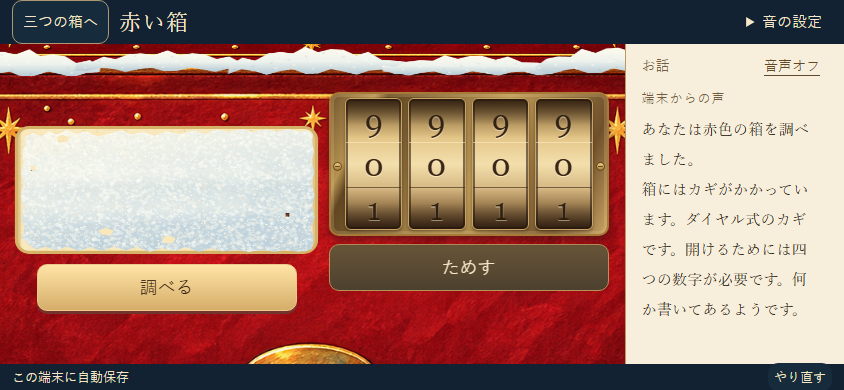
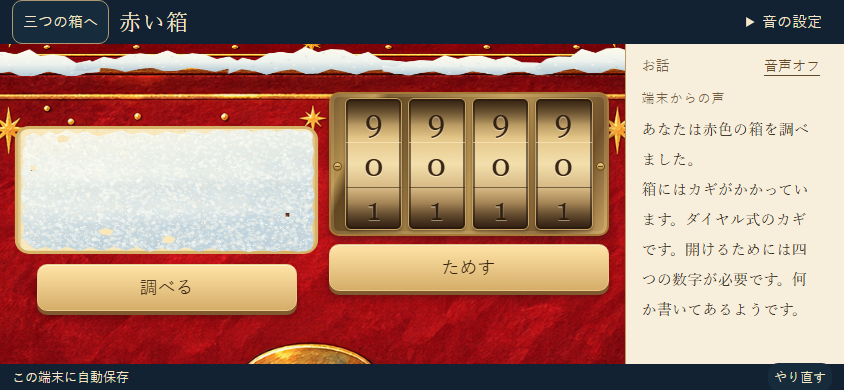
Make red-box controls tactile and guide lid dragging on the box

Changed region(s): [[0.3697, 0.6154, 0.7393, 0.7692], [0.0308, 0.8, 0.3389, 0.8308]]

diff --git a/prototype/red-box-stage.js b/prototype/red-box-stage.js
@@ -10,9 +10,10 @@ const readings = [ '', '雪の下に、何かある。', 'サンタ、イタチ\
 export function createRedBoxStage({ setCode, onDial, getCode, onLid }) {
   const element = document.createElement('section');
   element.className = 'red-stage';
+  const gripIcon='<span class="red-grip-arrow" aria-hidden="true"><svg viewBox="0 0 32 32"><path d="M16 28V6M6 16l10-10 10 10"/></svg></span><span class="red-grip-dots" aria-hidden="true"></span>';
   element.innerHTML = `<header class="red-header"><button type="button" data-action="boxes" class="red-back">三つの箱へ</button><h1 id="screen-heading" tabindex="-1">赤い箱</h1><details class="red-settings"><summary>音の設定</summary><div class="red-settings-content"></div></details></header>
-    <div class="red-content"><div class="red-play"><div class="red-picture"><canvas class="red-canvas" role="img" aria-label="大きく見た赤い箱"></canvas><div class="red-snowfall" aria-hidden="true"></div><div class="red-lock-panel" aria-label="赤い箱の錠"><div class="red-lock-mount"><span class="red-lock-screw left" aria-hidden="true"></span><span class="red-lock-screw right" aria-hidden="true"></span></div><button type="button" class="secondary" data-action="red_try">ためす</button></div><p class="red-loading" role="status">絵を読み込んでいます。</p><p class="red-wait" role="status" hidden></p><p class="red-fallback" hidden>赤い箱の絵を読み込めませんでした。手がかりとダイヤルで続けられます。</p></div>
-    <div class="red-actions"><p class="red-discovery" role="status"></p><button type="button" class="primary red-examine" data-action="examine">調べる</button><p class="red-result" role="status"></p><p class="red-lid-hint" hidden>ふたを上へ引いてあける</p><button type="button" class="secondary" data-action="open_red_lid" hidden>ふたをあける</button><div class="red-papers" hidden><span>す</span><span>だ</span></div><button type="button" class="primary" data-action="continue_box" hidden>ほかの箱を調べる</button><button type="button" class="red-close" data-action="close_red_lid" hidden>ふたをとじる</button></div></div>
+    <div class="red-content"><div class="red-play"><div class="red-picture"><canvas class="red-canvas" role="img" aria-label="大きく見た赤い箱"></canvas><div class="red-snowfall" aria-hidden="true"></div><div class="red-lock-panel" aria-label="赤い箱の錠"><div class="red-lock-mount"><span class="red-lock-screw left" aria-hidden="true"></span><span class="red-lock-screw right" aria-hidden="true"></span></div><button type="button" class="primary" data-action="red_try">ためす</button></div><button type="button" class="red-lid-grip" data-action="open_red_lid" aria-label="ふたをあける" hidden>${gripIcon}</button><button type="button" class="red-lid-grip red-grip-close" data-action="close_red_lid" aria-label="ふたをとじる" hidden>${gripIcon}</button><p class="red-loading" role="status">絵を読み込んでいます。</p><p class="red-wait" role="status" hidden></p><p class="red-fallback" hidden>赤い箱の絵を読み込めませんでした。手がかりとダイヤルで続けられます。</p></div>
+    <div class="red-actions"><p class="red-discovery" role="status"></p><button type="button" class="primary red-examine" data-action="examine">調べる</button><p class="red-result" role="status"></p><div class="red-papers" hidden><span>す</span><span>だ</span></div><button type="button" class="primary" data-action="continue_box" hidden>ほかの箱を調べる</button></div></div>
     <section class="red-dialogue" aria-labelledby="red-dialogue-title"><header><h2 id="red-dialogue-title">お話</h2><span class="red-voice" role="status" hidden><span class="red-voice-icon" aria-hidden="true"><svg viewBox="0 0 24 32"><path d="M2 12h5l8-8v24l-8-8H2z" fill="currentColor"/><path d="M19 10q7 6 0 12" fill="none" stroke="currentColor" stroke-width="2"/></svg><span class="red-voice-bars"><i></i><i></i><i></i><i></i><i></i><i></i><i></i></span></span><span>声を再生中</span></span><button type="button" data-action="mute" class="red-dialogue-mute"></button></header><div id="transcript" class="red-dialogue-scroll" role="region" aria-label="現在の台詞、スクロールして読む" tabindex="0"></div></section></div>
     <footer class="red-footer"><span id="save-status"></span><button type="button" data-action="reset">やり直す</button></footer>`;
   const find = selector => element.querySelector(selector);
@@ -24,7 +25,8 @@ export function createRedBoxStage({ setCode, onDial, getCode, onLid }) {
   let revealFrom = null, revealFraction = 0, revealStarted = 0, revealDuration = 0;
   let camera = 0, cameraStarted = 0, lastDialogue;
   const flakes = new Map();let lastSnowfall=-Infinity;
-  let drag = null;
+  let drag = null, gripDistance = 105, suppressClick = null;
+  const grips=Array.from(element.querySelectorAll('.red-lid-grip'));
   const paint = () => {
     if (!view) return;
     const play=find('.red-play'),compact=!art || (play.clientWidth<600 && play.clientHeight<450);
@@ -36,6 +38,7 @@ export function createRedBoxStage({ setCode, onDial, getCode, onLid }) {
     if(placement?.lock){const {x,y,w}=placement.lock;Object.assign(find('.red-lock-panel').style,{left:x+'px',top:y+'px',width:'280px',transform:`scale(${w/280})`});}
     if(placement?.clue && !compact){const c=placement.clue;Object.assign(examine.style,{left:(c.x+c.w/2-130)+'px',top:(c.y+c.h+12)+'px'});}
     if(placement?.clue){const c=placement.clue;Object.assign(find('.red-fallback').style,{left:c.x+'px',top:c.y+'px',width:c.w+'px'});}
+    if(placement?.grip){const {x,y,distance}=placement.grip;gripDistance=distance;for(const grip of grips)Object.assign(grip.style,{left:x+'px',top:y+'px'});}
     element.dataset.revealing=String(revealFrom!==null);
     element.dataset.revealFraction=revealFraction.toFixed(3);
     // Diagnostics report committed state, not an alternate game model.
@@ -87,26 +90,41 @@ export function createRedBoxStage({ setCode, onDial, getCode, onLid }) {
   }
   const observer = new ResizeObserver(paint); observer.observe(canvas);
   // PR #1's lid gesture: movement maps directly to the same painted hinge.
-  canvas.addEventListener('pointerdown',event=>{
+  function startDrag(event){
     if (!view?.boxes.red.opened || gate.blocked(performance.now()) || event.button!==0 || drag) return;
-    const bounds=canvas.getBoundingClientRect(),distance=art?.lidTarget(event.clientX-bounds.left,event.clientY-bounds.top,progress);
+    const source=event.currentTarget,bounds=canvas.getBoundingClientRect();
+    const distance=source===canvas?art?.lidTarget(event.clientX-bounds.left,event.clientY-bounds.top,progress):gripDistance;
+    // Without artwork, the same grip remains a tap/keyboard alternative.
+    if(source!==canvas&&!art)return;
     if(!distance)return;
     cancelAnimationFrame(frame);frame=0;
-    drag={id:event.pointerId,y:event.clientY,start:progress,distance};canvas.setPointerCapture(event.pointerId);
-  });
-  canvas.addEventListener('pointermove',event=>{
+    suppressClick=null;
+    drag={id:event.pointerId,y:event.clientY,start:progress,distance,source,moved:false};source.setPointerCapture(event.pointerId);
+    element.classList.add('red-dragging');
+  }
+  function moveDrag(event){
     if(!drag||drag.id!==event.pointerId)return;
+    drag.moved ||= Math.abs(drag.y-event.clientY)>5;
     progress=Math.min(1,Math.max(0,drag.start+(drag.y-event.clientY)/drag.distance));paint();
-  });
+  }
   function release(event){
     if(!drag||drag.id!==event.pointerId)return;
     const previous=drag;drag=null;
-    if(canvas.hasPointerCapture(event.pointerId))canvas.releasePointerCapture(event.pointerId);
-    if(event.type==='pointercancel'){progress=previous.start;paint();return;}
+    element.classList.remove('red-dragging');
+    if(previous.source.hasPointerCapture(event.pointerId))previous.source.releasePointerCapture(event.pointerId);
+    if(event.type==='pointercancel'&&previous.source!==canvas)suppressClick=previous.source;
+    if(event.type==='pointercancel'||(previous.source!==canvas&&!previous.moved)){progress=previous.start;paint();return;}
+    if(previous.source!==canvas)suppressClick=previous.source;
     onLid(progress);
   }
-  canvas.addEventListener('pointerup',release);canvas.addEventListener('pointercancel',release);
-  canvas.addEventListener('lostpointercapture',event=>{if(drag?.id===event.pointerId){progress=drag.start;drag=null;paint();}});
+  for(const surface of [canvas,...grips]){
+    surface.addEventListener('pointerdown',startDrag);surface.addEventListener('pointermove',moveDrag);
+    surface.addEventListener('pointerup',release);surface.addEventListener('pointercancel',release);
+    surface.addEventListener('lostpointercapture',event=>{if(drag?.id===event.pointerId){progress=drag.start;drag=null;element.classList.remove('red-dragging');paint();}});
+  }
+  for(const grip of grips)grip.addEventListener('click',event=>{
+    if(suppressClick===grip&&event.detail>0){suppressClick=null;event.preventDefault();event.stopPropagation();}
+  });
   loadRedArt().then(assets => {
     if (disposed) return;
     art = createRedArt(canvas, assets); find('.red-loading').hidden = true; paint();
@@ -135,7 +153,7 @@ export function createRedBoxStage({ setCode, onDial, getCode, onLid }) {
       if(first)camera=b.opened?1:0;
       else if(b.opened&&!wasUnlocked){cameraStarted=performance.now();camera=reducedMotion.matches?1:0;gate.hold(cameraStarted,reducedMotion.matches?0:650);motion(destination);}
       canvas.classList.toggle('red-lid-ready',b.opened);
-      canvas.setAttribute('aria-label', `大きく見た赤い箱。${readings[b.exam]}${open ? 'ふたの中に「す」と「だ」の紙。' : b.opened ? 'ふたを上へ引いて開ける。ボタンでも開けられます。' : ''}`);
+      canvas.setAttribute('aria-label', `大きく見た赤い箱。${readings[b.exam]}${open ? 'ふたの中に「す」と「だ」の紙。' : b.opened ? 'カギが開いた。' : ''}`);
       // Each committed examination corresponds to precisely one snow stage.
       if (lastExam !== undefined && lastExam !== b.exam) {
         revealFrom=lastExam-1;revealStarted=performance.now();revealDuration=[1700,1900,1150][revealFrom];revealFraction=0;
@@ -149,9 +167,7 @@ export function createRedBoxStage({ setCode, onDial, getCode, onLid }) {
       find('[data-action="examine"]').hidden = b.opened || b.exam >= 4;
       find('[data-action="examine"]').textContent = ['','','絵を調べる','絵の下を調べる'][b.exam] || '調べる';
       find('[data-action="red_try"]').hidden = b.opened;
-      find('[data-action="red_try"]').className = b.exam >= 4 ? 'primary' : 'secondary';
       find('.red-result').textContent = view.boxMessage === 'wrong' ? 'まだ開かない。もう一度ためそう。' : b.opened ? 'カギが開いた' : '';
-      find('.red-lid-hint').hidden = !b.opened || open;
       find('[data-action="open_red_lid"]').hidden = !b.opened || open;
       find('.red-papers').hidden = !open;
       find('[data-action="continue_box"]').hidden = !open;

diff --git a/tests/browser/red-box.spec.js b/tests/browser/red-box.spec.js
@@ -39,11 +39,11 @@ test('mobile: snow steps, rapid presses, one input, keyboard, wrong answer, lid,
   const painting=await page.locator('canvas').boundingBox();
   await page.mouse.move(painting.x+40,painting.y+painting.height*.8);await page.mouse.down();await page.mouse.move(painting.x+painting.width-40,painting.y+painting.height*.8,{steps:12});await page.mouse.up();
   await expect(page.locator('.red-stage')).toHaveAttribute('data-exam','1');
-  await shot(page,'mobile-start');await usable(page,'examine');await btn(page,'examine').click();
+  await shot(page,'mobile-start');await usable(page,'examine');
+  await btn(page,'examine').evaluate(button=>{button.click();for(let i=0;i<10;i++)button.dispatchEvent(new MouseEvent('click',{bubbles:true}));});
   await expect(page.locator('.red-stage')).toHaveAttribute('data-revealing','true');
   await expect.poll(()=>page.locator('.rb-snowflake').count()).toBeGreaterThan(0);
   await shot(page,'mobile-snow-sweep');
-  await btn(page,'examine').evaluate(button=>{for(let i=0;i<10;i++)button.dispatchEvent(new MouseEvent('click',{bubbles:true}));});
   await expect(page.locator('.red-stage')).toHaveAttribute('data-exam','2');
   await expect(page.locator('canvas')).not.toHaveAttribute('aria-label',/たぬき/);
   await usable(page,'examine');await shot(page,'mobile-text');await btn(page,'examine').click();await usable(page,'examine');
@@ -54,7 +54,7 @@ test('mobile: snow steps, rapid presses, one input, keyboard, wrong answer, lid,
   await expect(page.locator('.red-stage')).toHaveAttribute('data-exam','4');
   await btn(page,'red_try').click();await expect(page.locator('.red-result')).toContainText('まだ開かない');
   await digits(page,'3138');await usable(page,'red_try');await btn(page,'red_try').click();await usable(page,'open_red_lid');
-  await expect(page.locator('.red-stage')).toHaveAttribute('data-lid-open','false');await btn(page,'open_red_lid').click();await usable(page,'continue_box');
+  await expect(page.locator('.red-stage')).toHaveAttribute('data-lid-open','false');await shot(page,'mobile-unlocked');await btn(page,'open_red_lid').click();await usable(page,'continue_box');
   await expect(page.locator('canvas')).toHaveAttribute('data-progress','1.000');await shot(page,'mobile-open');
   await btn(page,'close_red_lid').click();await usable(page,'open_red_lid');await page.reload();await btn(page,'resume').click();
   await expect(page.locator('.red-stage')).toHaveAttribute('data-lid-open','false');await usable(page,'open_red_lid');await btn(page,'open_red_lid').click();await usable(page,'continue_box');
@@ -101,6 +101,14 @@ test('viewport controls remain visible on small phone, landscape, tablet and PC'
   expect((await btn(page,'red_try').boundingBox()).y+(await btn(page,'red_try').boundingBox()).height).toBeLessThanOrEqual(568);
   await digits(page,'3138');await btn(page,'red_try').click();await usable(page,'open_red_lid');
   await expect(page.locator('canvas')).toHaveAttribute('data-camera','1.000');await waitForCanvasSize(page);
+  for(const [width,height] of [[320,568],[390,844],[844,390],[1280,720]]){
+    await page.setViewportSize({width,height});await waitForCanvasSize(page);
+    const grip=await btn(page,'open_red_lid').boundingBox(),dial=await page.getByRole('spinbutton').first().boundingBox();
+    expect(grip.width).toBeGreaterThanOrEqual(44);expect(grip.height).toBeGreaterThanOrEqual(44);
+    expect(grip.y).toBeGreaterThanOrEqual(48);expect(grip.y+grip.height).toBeLessThanOrEqual(dial.y);
+    expect(grip.x).toBeGreaterThanOrEqual(0);expect(grip.x+grip.width).toBeLessThanOrEqual(width);
+  }
+  await page.setViewportSize({width:320,height:568});await waitForCanvasSize(page);
   const closedSize=JSON.parse(await page.locator('canvas').getAttribute('data-box')).w;
   await btn(page,'open_red_lid').click();await usable(page,'continue_box');
   expect(JSON.parse(await page.locator('canvas').getAttribute('data-box')).w).toBeCloseTo(closedSize,2);
@@ -150,7 +158,9 @@ test('audio: actions during voice, animated speaker, complete voices and ordered
   await expect.poll(()=>clip.evaluate(audio=>audio.currentTime)).toBeGreaterThan(0);
   const firstClip=await clip.elementHandle(),before=await firstClip.evaluate(audio=>audio.currentTime);await digits(page,'3138');
   await expect.poll(()=>clip.evaluate(audio=>audio.currentTime)).toBeGreaterThan(before);
-  await btn(page,'examine').click();for(let i=0;i<5;i++)await btn(page,'examine').dispatchEvent('click');
+  // Send the burst in one browser task; individual driver round trips can
+  // exceed the snow animation and accidentally test a later valid press.
+  await btn(page,'examine').evaluate(button=>{button.click();for(let i=0;i<5;i++)button.dispatchEvent(new MouseEvent('click',{bubbles:true}));});
   await expect(page.locator('.red-stage')).toHaveAttribute('data-exam','2');
   expect(await firstClip.evaluate(audio=>audio.ended)).toBe(false);await expect(page.locator('#transcript')).toContainText('このあと');
   await usable(page,'red_try');await btn(page,'red_try').click();await usable(page,'open_red_lid');
@@ -209,13 +219,16 @@ test('reduced motion, voice stop and BGM slider preserve progress and keyboard a
 
 test.describe('touch emulation',()=>{
   test.use({hasTouch:true,isMobile:true,viewport:{width:390,height:844}});
-  test('neighboring numbers edit the mounted four digits by touch without arrow glyphs',async({page})=>{
+  test('touch: neighboring numbers edit the four digits and the lid grip also opens and closes by tap',async({page})=>{
     await setup(page);await enterRed(page);
     const arrow=page.getByRole('button',{name:'1桁目の数字の列を上へ回す',exact:true});const box=await arrow.boundingBox();
     await page.touchscreen.tap(box.x+box.width/2,box.y+box.height/2);
     await expect(page.getByRole('spinbutton',{name:'1桁目のダイアル',exact:true})).toHaveAttribute('aria-valuenow','1');
     expect(await page.locator('input[type="text"]').count()).toBe(0);
     await expect(page.locator('.rb-cylinder-direction')).toHaveCount(0);
+    await digits(page,'3138');await btn(page,'red_try').tap();await usable(page,'open_red_lid');
+    await btn(page,'open_red_lid').tap();await usable(page,'continue_box');await expect(page.locator('canvas')).toHaveAttribute('data-progress','1.000');
+    await btn(page,'close_red_lid').tap();await usable(page,'open_red_lid');await expect(page.locator('canvas')).toHaveAttribute('data-progress','0.000');
   });
 });
 
@@ -227,6 +240,33 @@ test('lid drag pauses and reverses, saves intermediate progress, and grants no d
   await expect(canvas).toHaveAttribute('data-progress','0.600');await page.mouse.move(x,y-distance*.4,{steps:4});await expect(canvas).toHaveAttribute('data-progress','0.400');await page.mouse.up();
   await page.reload();await btn(page,'resume').click();await expect(canvas).toHaveAttribute('data-progress','0.400');
   await btn(page,'open_red_lid').click();await usable(page,'continue_box');await btn(page,'continue_box').click();await expect(page.locator('.collected-count')).toHaveText('見つけた文字 2 / 6');
+});
+
+test('lid grip: direction moves, drag releases at the chosen position, keyboard works and reduced motion is still',async({page})=>{
+  await page.setViewportSize({width:1280,height:720});await setup(page);await enterRed(page);await digits(page,'3138');await btn(page,'red_try').click();await usable(page,'open_red_lid');
+  const canvas=page.locator('canvas'),grip=btn(page,'open_red_lid'),arrow=grip.locator('.red-grip-arrow');
+  await expect(grip).toHaveAccessibleName('ふたをあける');
+  // The stage has one manipulation point, with no added visible instruction or separate open button.
+  await expect(page.locator('.red-actions')).not.toContainText('ふた');
+  await expect(page.locator('.red-lid-hint')).toHaveCount(0);
+  await expect(grip).toHaveText('');
+  const transform=await arrow.evaluate(e=>getComputedStyle(e).transform);
+  await expect.poll(()=>arrow.evaluate(e=>getComputedStyle(e).transform)).not.toBe(transform);
+  await shot(page,'desktop-unlocked');
+  const handle=await grip.boundingBox(),box=JSON.parse(await canvas.getAttribute('data-box')),distance=Math.max(105,box.w*.47);
+  const x=handle.x+handle.width/2,y=handle.y+handle.height/2;
+  await page.mouse.move(x,y);await page.mouse.down();await page.mouse.move(x,y-distance*.6,{steps:6});
+  await expect(canvas).toHaveAttribute('data-progress','0.600');await page.mouse.move(x,y-distance*.4,{steps:4});await page.mouse.up();
+  await expect(canvas).toHaveAttribute('data-progress','0.400');await expect(page.locator('.red-stage')).toHaveAttribute('data-lid-open','false');
+  // A drag must not also trigger the grip's click alternative and snap fully open.
+  await page.reload();await btn(page,'resume').click();await expect(canvas).toHaveAttribute('data-progress','0.400');
+  await grip.press('Enter');await usable(page,'continue_box');await expect(canvas).toHaveAttribute('data-progress','1.000');
+  await btn(page,'close_red_lid').press('Space');await usable(page,'open_red_lid');await expect(canvas).toHaveAttribute('data-progress','0.000');
+  // Cancel an in-flight gesture without changing the saved position.
+  const again=await grip.boundingBox();await page.mouse.move(again.x+again.width/2,again.y+again.height/2);await page.mouse.down();await page.mouse.move(again.x+again.width/2,again.y-40,{steps:4});
+  await grip.dispatchEvent('pointercancel',{pointerId:1});await page.mouse.up();await expect(canvas).toHaveAttribute('data-progress','0.000');
+  await page.emulateMedia({reducedMotion:'reduce'});await expect(arrow).toHaveCSS('animation-name','none');
+  await grip.press('Enter');await usable(page,'continue_box');await expect(canvas).toHaveAttribute('data-progress','1.000');
 });
 
 test('main regression: all boxes, decline and recall, three wrong answers and original ending',async({page})=>{

diff --git a/prototype/red-box.css b/prototype/red-box.css
@@ -20,7 +20,7 @@ body.red-playing { background:#102031; }
 .red-play { display:flex; flex-direction:column; min-height:0; min-width:0; container:red-play / inline-size; }
 .red-picture { position:relative; width:100%; flex:1; min-height:0; overflow:auto; overscroll-behavior:contain; }
 .red-canvas { width:100%; height:100%; position:absolute; inset:0; display:block; }
-.red-lid-ready { touch-action:none; cursor:ns-resize; }
+.red-lid-ready { touch-action:none; cursor:grab; }
 .red-loading { position:absolute; inset:55% 10% auto; padding:16px; text-align:center; color:#f7e7c8; background:#15283ddb; }
 .red-fallback { position:absolute; left:16px; right:16px; top:8px; white-space:pre-line; font-size:16px; line-height:1.5; margin:0; }
 .red-wait { position:absolute; right:8px; top:0; margin:0; padding:4px 10px; color:#fff0d2; background:#102031da; border-radius:12px; font-size:14px; pointer-events:none; }
@@ -30,13 +30,26 @@ body.red-playing { background:#102031; }
 .red-compact-controls .red-examine { width:min(300px,100%); }
 .red-actions .primary { width:min(420px,100%); }
 .red-stage .primary,.red-stage .secondary { min-height:44px; font-size:18px; border-radius:10px; padding:8px 12px; }
-.red-stage .primary { color:#32200d; background:linear-gradient(#ffe4a7,#d5ad69); border:1px solid #edca89; }
+.red-stage .primary { color:#32200d; background:linear-gradient(#ffe4a7,#d5ad69); border:1px solid #edca89; box-shadow:0 4px 0 #80592e,0 6px 10px #0005,inset 0 1px #fff3d2; }
+.red-stage .primary:hover:not(:disabled) { filter:brightness(1.08); }
+.red-stage .primary:active:not(:disabled) { transform:translateY(3px); box-shadow:0 1px 0 #80592e,inset 0 1px #fff3d2; }
 .red-stage .secondary { color:#f7e7c8; background:linear-gradient(#675538,#4c402e); border:1px solid #b69458; }
 .red-stage button:disabled { opacity:.65; cursor:default; }
 .red-discovery,.red-result { position:absolute; width:1px; height:1px; padding:0; margin:-1px; overflow:hidden; clip-path:inset(50%); }
 .red-result:empty { display:none; }
 .red-lock-panel { position:absolute; top:72px; left:calc(50% - 140px); width:280px; display:flex; flex-direction:column; gap:8px; transform-origin:top left; }
 .red-opened .red-lock-panel { pointer-events:none; }
+.red-stage .red-lid-grip { position:absolute; left:50%; top:260px; transform:translate(-50%,-50%); width:86px; height:68px; padding:5px 12px 7px; display:flex; flex-direction:column; align-items:center; justify-content:space-between; border:2px solid #f9d798; border-radius:24px; color:#ffebbb; background:linear-gradient(#344e63,#142c41); box-shadow:0 4px 0 #071b2a,0 7px 14px #0006,inset 0 1px #b6c8d888; cursor:grab; touch-action:none; user-select:none; }
+.red-lid-grip:hover:not(:disabled) { background:linear-gradient(#456780,#1d3d56); }
+.red-grip-arrow { display:block; height:36px; animation:red-lid-pull 1.4s ease-in-out infinite; }
+.red-grip-arrow svg { display:block; width:32px; height:32px; fill:none; stroke:currentColor; stroke-width:4; stroke-linecap:round; stroke-linejoin:round; }
+.red-grip-dots { width:30px; height:10px; background:radial-gradient(circle,#e5c58e 1.8px,transparent 2px) 0 0 / 10px 5px; }
+.red-grip-close .red-grip-arrow { animation-name:red-lid-push; }
+.red-grip-close svg { transform:rotate(180deg); }
+.red-dragging .red-lid-ready,.red-dragging .red-lid-grip { cursor:grabbing; }
+.red-dragging .red-grip-arrow { animation:none; }
+@keyframes red-lid-pull { 0%,100% { transform:translateY(3px); } 60% { transform:translateY(-5px); } }
+@keyframes red-lid-push { 0%,100% { transform:translateY(-3px); } 60% { transform:translateY(5px); } }
 .red-opened .rb-cylinder button:disabled { opacity:1; }
 .red-lock-mount { position:relative; height:144px; padding:4px 14px; border:2px solid #a77b37; border-radius:10px; background:linear-gradient(115deg,#74562e,#b59252 13%,#614622 17%,#bc9956 53%,#70502b 84%,#c9a464); box-shadow:0 4px 7px #42141799,inset 0 0 0 3px #f2d49633; }
 .red-lock-screw { position:absolute; width:9px; height:9px; top:49%; border-radius:50%; background:linear-gradient(#f3d385,#a37a32); border:1px solid #61441d; }
@@ -54,12 +67,10 @@ body.red-playing { background:#102031; }
 .red-snowfall { position:absolute; inset:0; pointer-events:none; overflow:hidden; }
 .rb-snowflake { position:absolute; display:block; width:var(--snow-size); height:var(--snow-size); border-radius:1px; background:#fffbed; box-shadow:0 1px 1px #7f9aaa66; animation:rb-snow-fall var(--snow-duration) ease-in forwards; }
 @keyframes rb-snow-fall { 0% { opacity:.9; transform:translate(var(--snow-start-x),-2px) rotate(0); } 30% { opacity:.9; } 100% { opacity:0; transform:translate(var(--snow-drift),var(--snow-fall)) rotate(var(--snow-turn)); } }
-.red-opened .red-actions { flex-direction:row; flex-wrap:wrap; gap:4px 8px; min-height:88px; }
+.red-opened .red-actions { min-height:56px; }
 .red-opened .red-discovery { order:0; width:100%; }
 .red-opened .red-result { display:none; }
 .red-opened .red-actions .primary { width:auto; flex:2; max-width:420px; }
-.red-opened .red-close { flex:0 0 auto; max-width:180px; font-size:16px; white-space:nowrap; }
-.red-lid-hint { flex:0 0 100%; margin:0; text-align:center; font-size:16px; }
 .red-papers { display:none; }
 .red-dialogue { min-height:0; min-width:0; display:flex; flex-direction:column; background:#f7eedb; color:#30291f; border-top:1px solid #b99a65; }
 .red-dialogue header { display:flex; flex:0 0 44px; justify-content:space-between; align-items:center; padding:0 16px; gap:12px; }

diff --git a/prototype/red-box-art.js b/prototype/red-box-art.js
@@ -245,7 +245,11 @@ function lid(state) {
     groundShadow(box);
     ctx.drawImage(assets.body,box.x,box.y,box.w,box.h);papers(state);frontClue();bodySnow();lid(state);
     Object.assign(canvas.dataset,{exam:String(exam),progress:progress.toFixed(3),camera:amount.toFixed(3),box:JSON.stringify(box),clue:JSON.stringify(clue),lock:JSON.stringify(lock),lid:JSON.stringify(unlocked?lidQuad(state.opening,hinge).points:null),closeup:String(closeup),ready:'true'});
-    return {lock,clue};
+    const q=lidQuad(state.opening,hinge);
+    // Keep the grip inside the lid face, clear of the four-digit lock below.
+    // Near edge-on the inset shrinks continuously instead of jumping faces.
+    const gripY=q.edgeY-Math.max(-38,Math.min(38,q.edgeY-hinge.hingeY));
+    return {lock,clue,grip:{x:hinge.cx,y:Math.max(38,Math.min(height-38,gripY)),distance:Math.max(105,box.w*.47)}};
   }
   return {paint, sweepPosition(stage,fraction) {
     if(!layout)return null;
